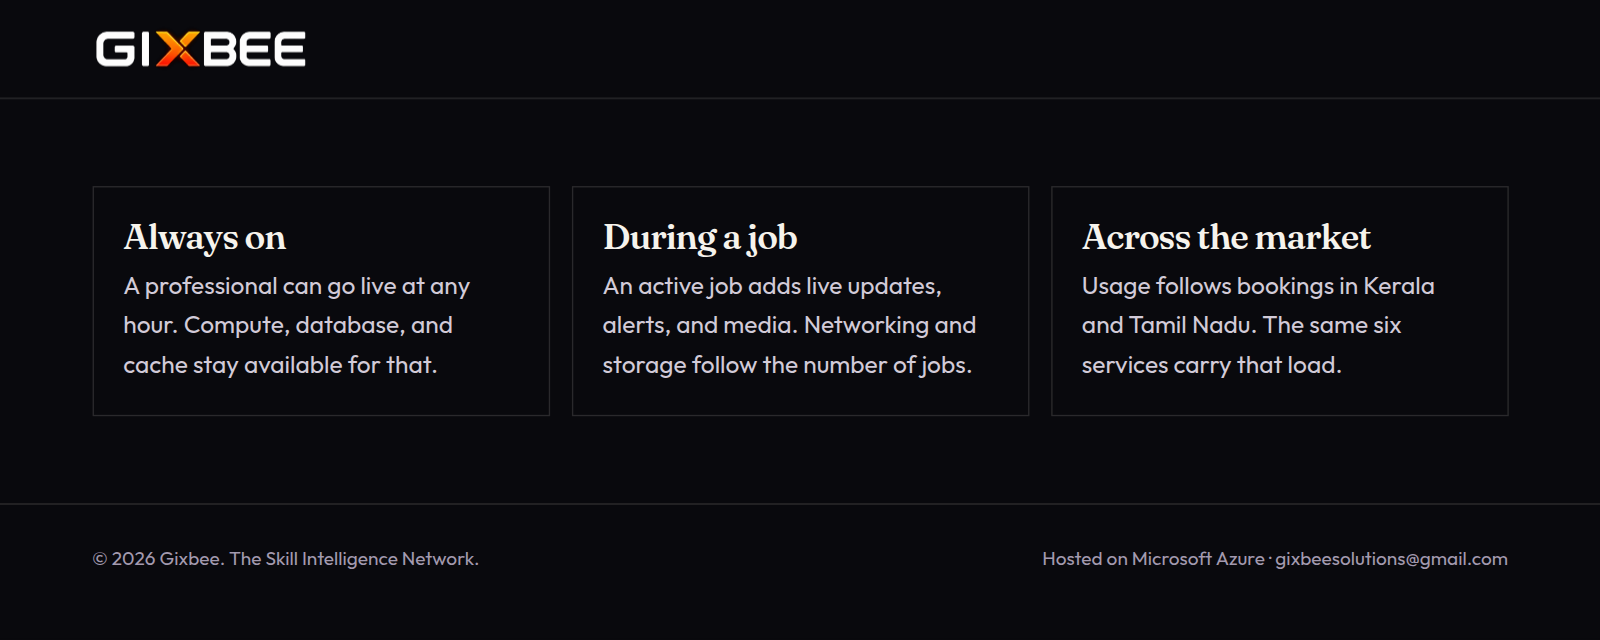
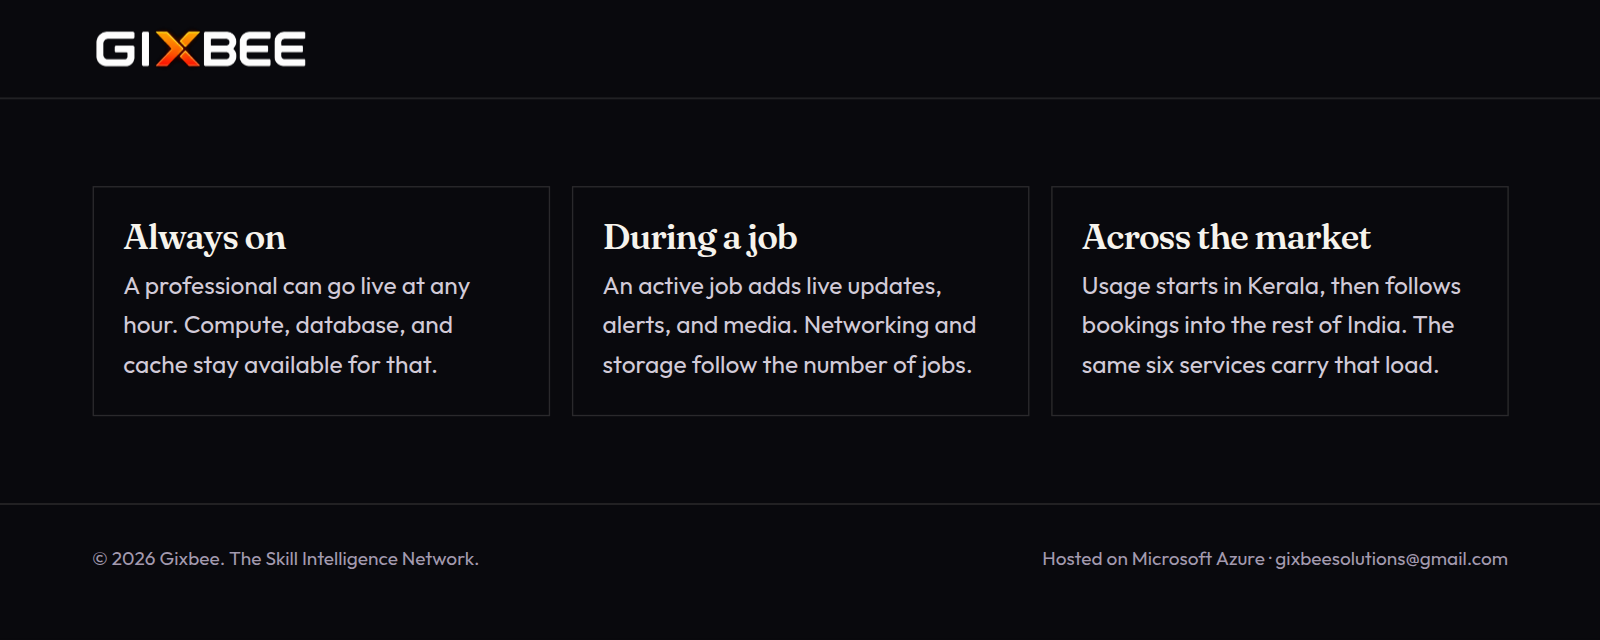
Describe the market as Kerala first, then the rest of India.
The public pages and Google Sites pictures no longer present Kerala and Tamil Nadu as a single region.

Changed region(s): [[0.6562, 0.5, 0.9062, 0.5312], [0.6875, 0.5625, 0.9062, 0.5938], [0.7188, 0.4375, 0.9062, 0.4688]]

diff --git a/site/index.html b/site/index.html
@@ -4,7 +4,7 @@
   <meta charset="utf-8">
   <meta name="viewport" content="width=device-width, initial-scale=1">
   <title>Gixbee — The Skill Intelligence Network</title>
-  <meta name="description" content="Gixbee is software for booking local help, planning events, finding work, and listing a business in Kerala and Tamil Nadu.">
+  <meta name="description" content="Gixbee is software for booking local help, planning events, finding work, and listing a business. Kerala first, then the rest of India.">
   <link rel="icon" href="assets/favicon.png" type="image/png">
   <link rel="preconnect" href="https://fonts.googleapis.com">
   <link rel="preconnect" href="https://fonts.gstatic.com" crossorigin>
@@ -33,7 +33,7 @@
     <div class="wrap hero" data-shot="01-company-01-overview">
       <div class="hero-grid">
         <div>
-          <p class="kicker">Kerala and Tamil Nadu</p>
+          <p class="kicker">Kerala first</p>
           <h1>The Skill Intelligence Network.</h1>
           <p class="lede">Gixbee is a software product for local services and work. People use the Android and iOS apps to book help, plan an event, find a job, or list a business. One account can do any of those.</p>
           <hr class="rule">
@@ -46,7 +46,7 @@
             <div><dt>Product</dt><dd>Owned mobile software</dd></div>
             <div><dt>Industry</dt><dd>Local services, work, and hiring</dd></div>
             <div><dt>Customers</dt><dd>Households, professionals, job seekers, and local businesses</dd></div>
-            <div><dt>Market</dt><dd>Kerala and Tamil Nadu, India</dd></div>
+            <div><dt>Market</dt><dd>Kerala first, then the rest of India</dd></div>
             <div><dt>Contact</dt><dd>gixbeesolutions@gmail.com</dd></div>
           </dl>
         </aside>
@@ -129,7 +129,7 @@
   <footer data-shot-end="01-company-03-how-it-works">
     <div class="wrap">
       <span>© 2026 Gixbee. The Skill Intelligence Network.</span>
-      <span>Kerala and Tamil Nadu, India · gixbeesolutions@gmail.com</span>
+      <span>Kerala first, then the rest of India · gixbeesolutions@gmail.com</span>
     </div>
   </footer>
 </body>

diff --git a/site/terms.html b/site/terms.html
@@ -36,7 +36,7 @@
       <p>These terms cover the Gixbee website and apps. Last updated 19 October 2026.</p>
 
       <h2>The service</h2>
-      <p>Gixbee is software for booking local services, planning events, finding work, and listing a business in Kerala and Tamil Nadu. Gixbee does not employ the professionals on the platform, and it does not assign a job to someone who has not accepted it. A request may go unanswered if nobody accepts.</p>
+      <p>Gixbee is software for booking local services, planning events, finding work, and listing a business. The focus is Kerala first, then the rest of India. Gixbee does not employ the professionals on the platform, and it does not assign a job to someone who has not accepted it. A request may go unanswered if nobody accepts.</p>
 
       <h2>Accounts and listings</h2>
       <p>You sign in with your phone number. You are responsible for that account and for what you publish in a profile, listing, or job. Listings must describe a real service.</p>

diff --git a/site/cloud.html b/site/cloud.html
@@ -41,7 +41,7 @@
         <div class="section-head">
           <p class="kicker">Cloud services</p>
           <h2>What the product depends on.</h2>
-          <p class="lede">These are the services behind the apps. They grow as more jobs run across Kerala and Tamil Nadu.</p>
+          <p class="lede">These are the services behind the apps. They grow with jobs in Kerala first, then across the rest of India.</p>
         </div>
         <div class="table-wrap">
           <table>
@@ -74,7 +74,7 @@
           </article>
           <article class="card">
             <h3>Across the market</h3>
-            <p>Usage follows bookings in Kerala and Tamil Nadu. The same six services carry that load.</p>
+            <p>Usage starts in Kerala, then follows bookings into the rest of India. The same six services carry that load.</p>
           </article>
         </div>
       </div>

diff --git a/site/privacy.html b/site/privacy.html
@@ -33,7 +33,7 @@
     <div class="wrap hero prose" data-shot="04-privacy">
       <p class="kicker">Privacy</p>
       <h1>What the app uses.</h1>
-      <p>This note covers the Gixbee apps. It was last updated on 19 October 2026. Gixbee operates in Kerala and Tamil Nadu, India. Contact gixbeesolutions@gmail.com.</p>
+      <p>This note covers the Gixbee apps. It was last updated on 19 October 2026. Gixbee starts in Kerala, then the rest of India. Contact gixbeesolutions@gmail.com.</p>
 
       <h2>Information</h2>
       <ul>
